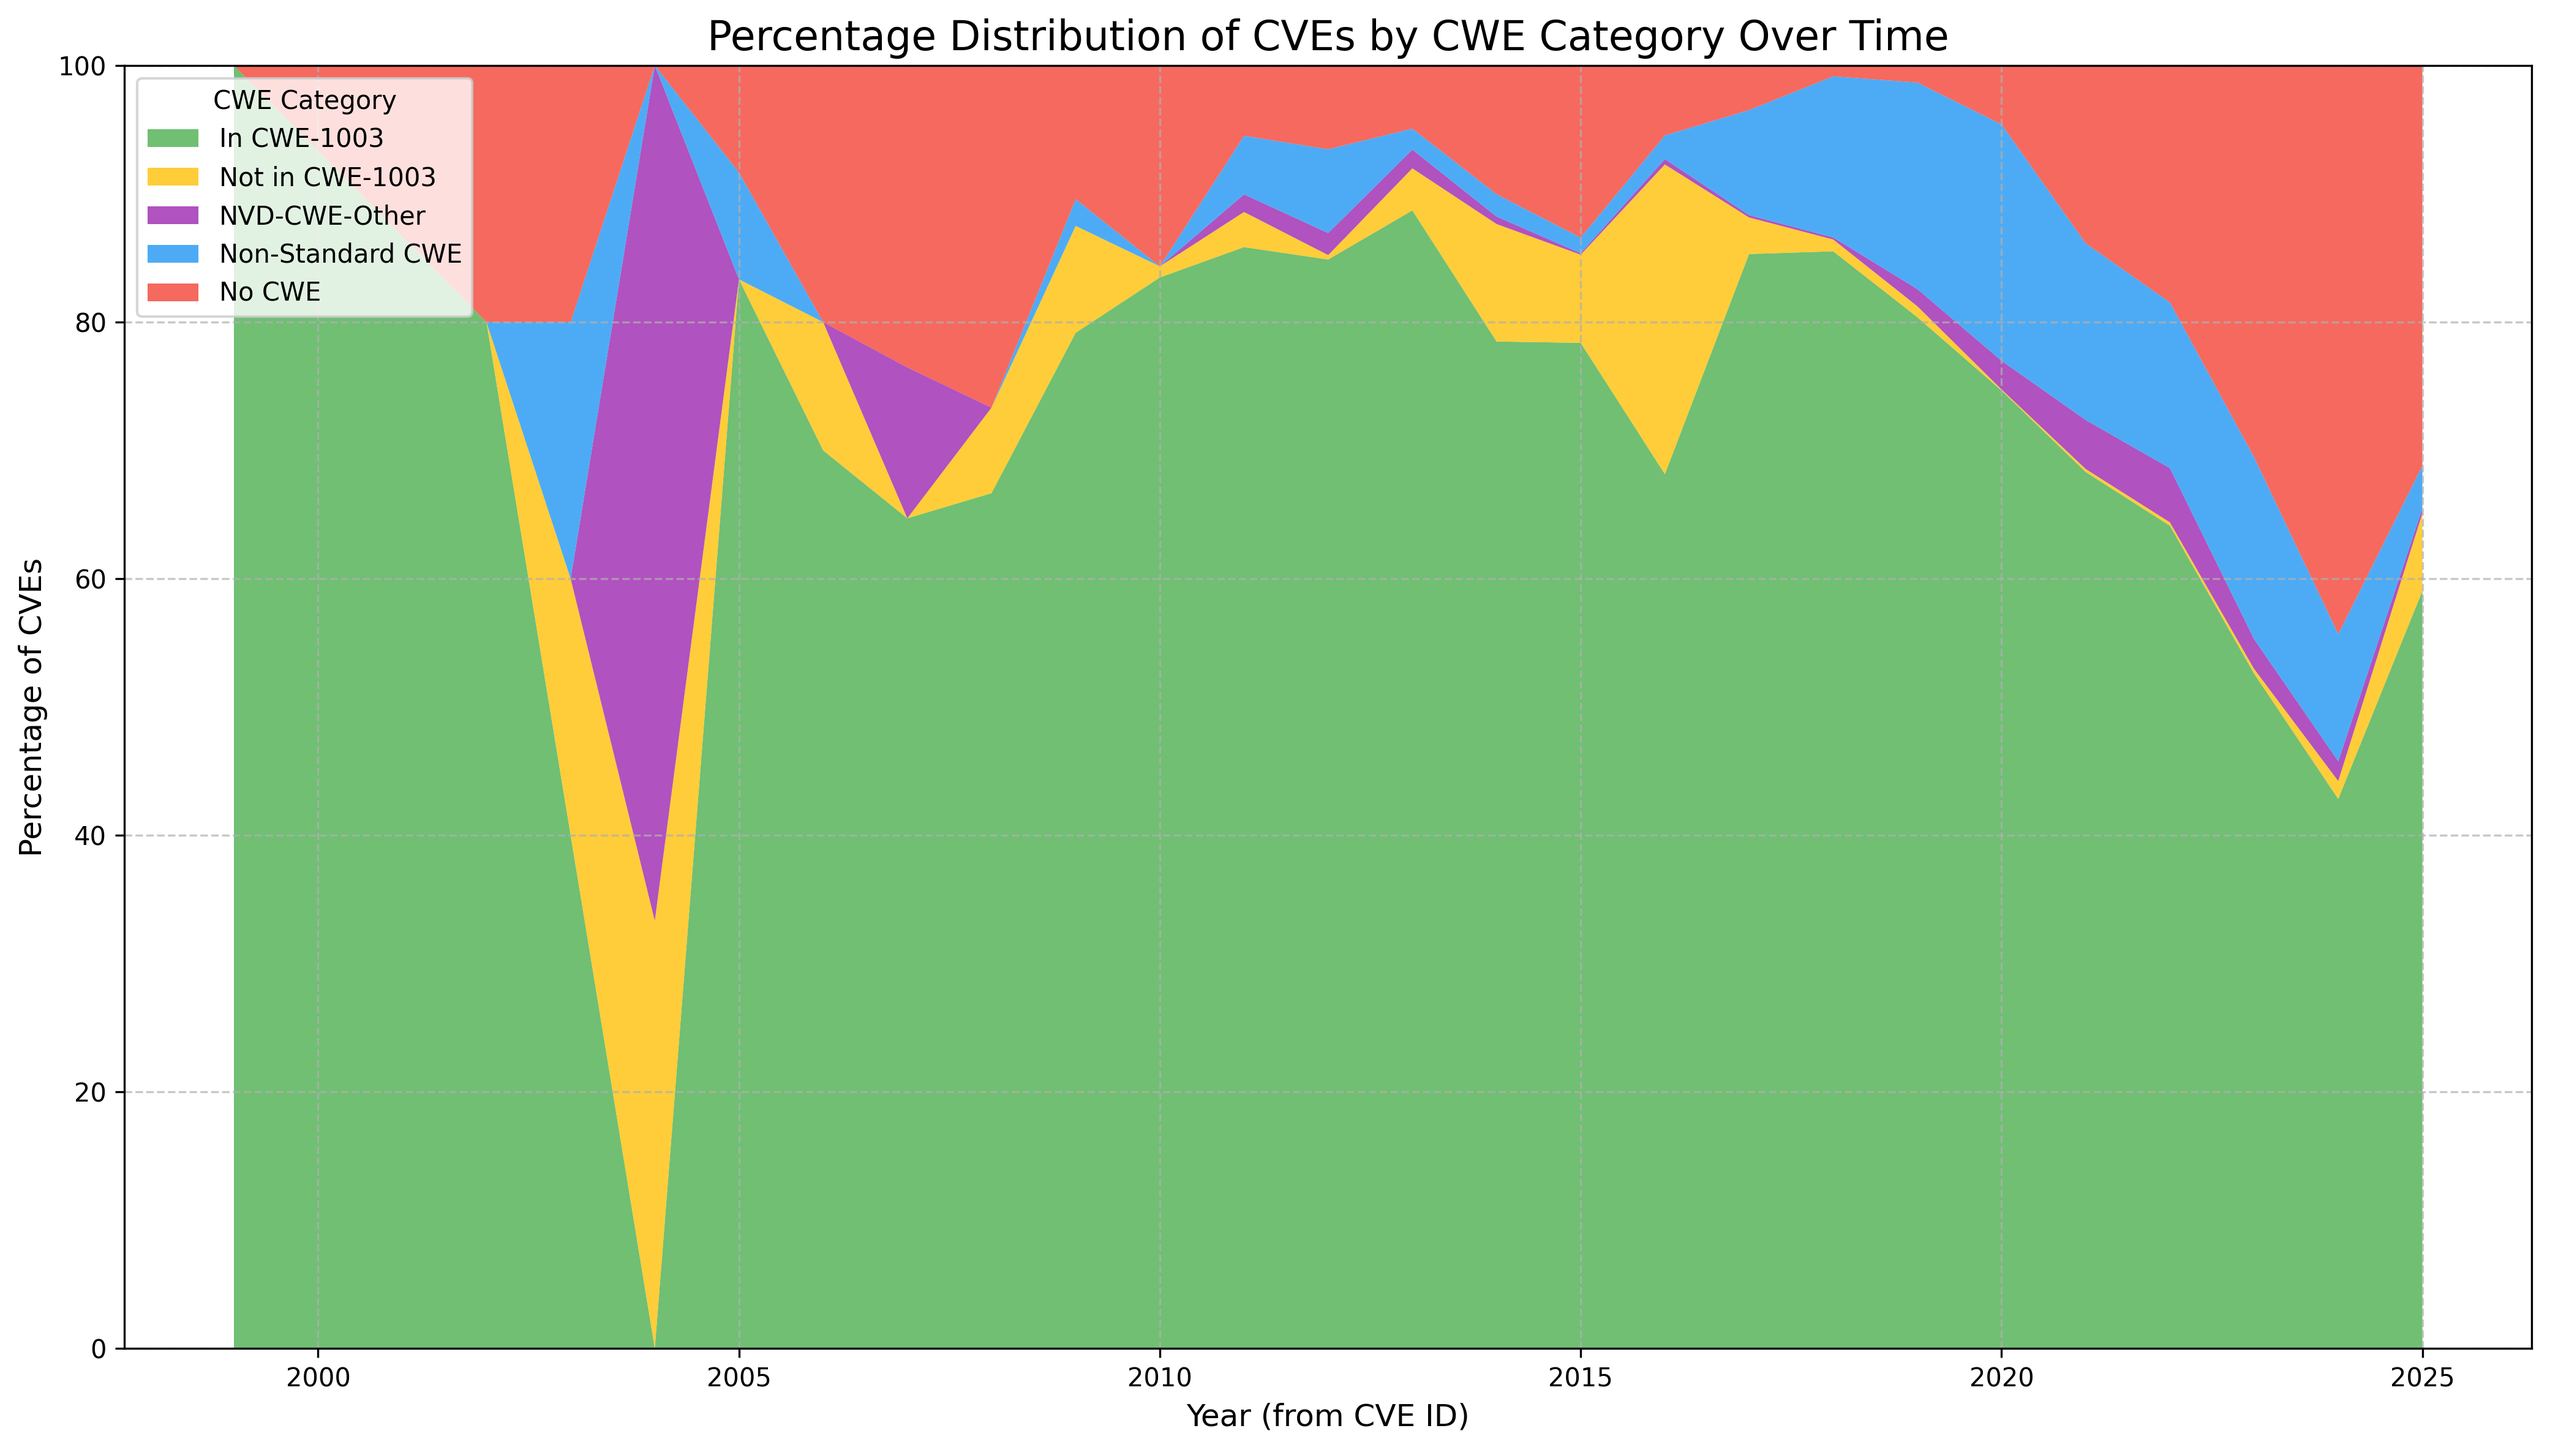
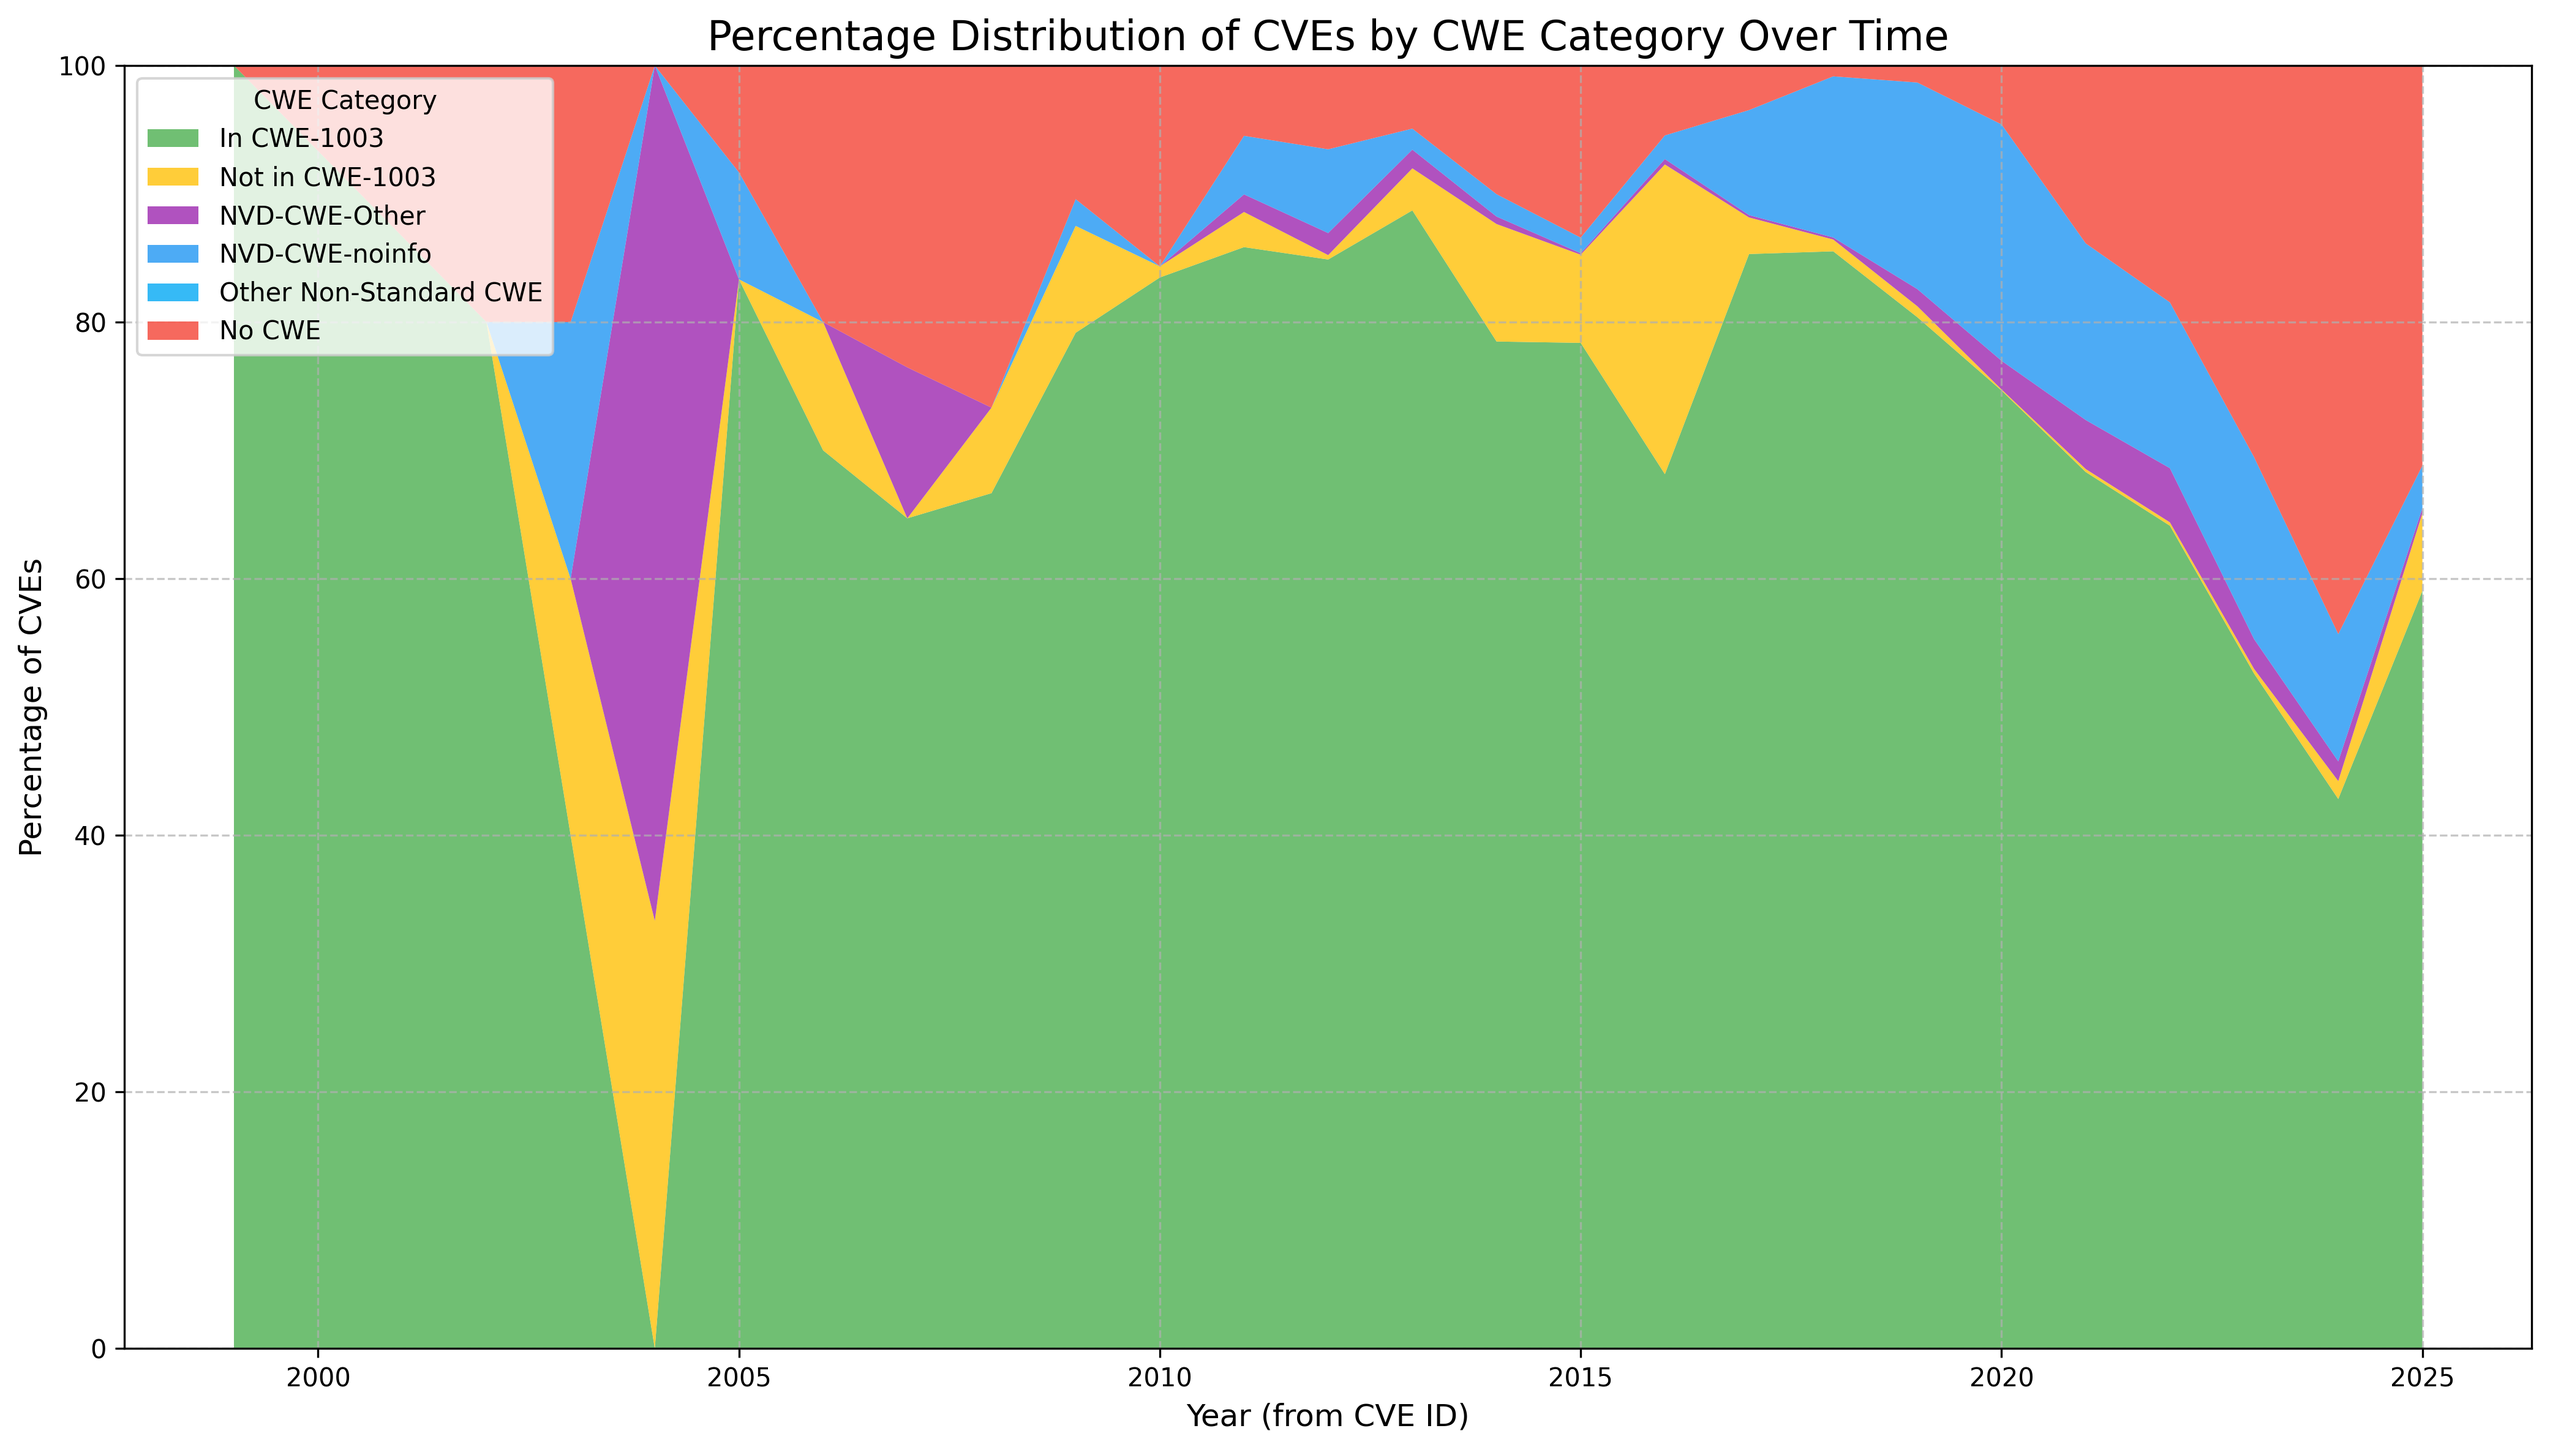
cwes over time

Changed region(s): [[0.0312, 0.0312, 0.2185, 0.25]]

diff --git a/cwe_over_time.py b/cwe_over_time.py
@@ -8,6 +8,7 @@ import os
 import re
 import csv
 from pathlib import Path
+from collections import Counter
 
 def read_gzipped_csv(filepath):
     """Read a gzipped CSV file into a pandas DataFrame."""
@@ -39,18 +40,10 @@ def main():
     # Read the CWE-1003 file to get the list of CWEs in that view
     cwe_1003_ids = set()
     
-    # First, try to directly read and print the first few lines of the file for debugging
-    with open(cwe_1003_path, 'r', encoding='utf-8') as f:
-        print("First 3 lines of 1003.csv:")
-        for i, line in enumerate(f):
-            if i < 3:
-                print(line.strip())
-    
-    # Now read the file again and extract the CWE IDs
+    # Now read the file and extract the CWE IDs
     with open(cwe_1003_path, 'r', encoding='utf-8') as f:
         csv_reader = csv.reader(f)
         header = next(csv_reader)  # Skip header row
-        print(f"CSV header: {header}")
         
         # Find the column index for CWE-ID
         cwe_id_index = header.index('CWE-ID') if 'CWE-ID' in header else 0
@@ -73,8 +66,6 @@ def main():
         cwe_1003_ids.add('119')
     
     print(f"Found {len(cwe_1003_ids)} CWE IDs in the 1003 view")
-    print("CWE IDs in the 1003 view (sample):", sorted(list(cwe_1003_ids))[:10])
-    print("Is '119' in the CWE 1003 view?", '119' in cwe_1003_ids)
     
     print("Reading CVSS data...")
     # Read the CVSS data
@@ -88,7 +79,6 @@ def main():
     invalid_cves = cvss_df[cvss_df['Year'].isna()]
     if not invalid_cves.empty:
         print(f"Warning: Could not extract year from {len(invalid_cves)} CVE IDs.")
-        print("Sample invalid CVE IDs:", invalid_cves['CVE'].head().tolist())
         # Drop rows with invalid years
         cvss_df = cvss_df.dropna(subset=['Year'])
     
@@ -123,7 +113,11 @@ def main():
         if not cwe_list or cwe_list == ['']:
             return 'No CWE'
         
-        # Check for non-standard CWEs (not "CWE-digits" and not "NVD-CWE-Other")
+        # Check for NVD-CWE-noinfo
+        if 'NVD-CWE-noinfo' in cwe_list:
+            return 'NVD-CWE-noinfo'
+        
+        # Check for other non-standard CWEs (not "CWE-digits" and not "NVD-CWE-Other")
         has_non_standard = False
         for cwe in cwe_list:
             if cwe != 'NVD-CWE-Other' and not is_standard_cwe(cwe):
@@ -131,7 +125,7 @@ def main():
                 break
         
         if has_non_standard:
-            return 'Non-Standard CWE'
+            return 'Other Non-Standard CWE'
         
         # Extract numeric part from each CWE ID
         cwe_numbers = [extract_cwe_number(cwe) for cwe in cwe_list if is_standard_cwe(cwe)]
@@ -148,19 +142,11 @@ def main():
     
     cvss_df['Category'] = cvss_df['CWEsList'].apply(categorize_cwe)
     
-    # Look for non-standard CWEs
-    non_standard_cwe_examples = cvss_df[cvss_df['Category'] == 'Non-Standard CWE']
-    if not non_standard_cwe_examples.empty:
-        print(f"\nFound {len(non_standard_cwe_examples)} CVEs with non-standard CWEs")
-        print("Sample non-standard CWEs:")
-        for _, row in non_standard_cwe_examples.head(5).iterrows():
-            print(f"CVE: {row['CVE']}, CWEs: {row['CWEs']}")
-    
     # Group by Year and Category, and count
     grouped_data = cvss_df.groupby(['Year', 'Category']).size().unstack(fill_value=0)
     
     # Handle missing categories by ensuring all categories are columns
-    all_categories = ['In CWE-1003', 'Not in CWE-1003', 'NVD-CWE-Other', 'Non-Standard CWE', 'No CWE']
+    all_categories = ['In CWE-1003', 'Not in CWE-1003', 'NVD-CWE-Other', 'NVD-CWE-noinfo', 'Other Non-Standard CWE', 'No CWE']
     for category in all_categories:
         if category not in grouped_data.columns:
             grouped_data[category] = 0
@@ -168,19 +154,14 @@ def main():
     # Sort columns for consistent appearance
     grouped_data = grouped_data[all_categories]
     
-    # Print category counts to verify
-    total_by_category = grouped_data.sum()
-    print("\nTotal counts by category:")
-    for category in all_categories:
-        print(f"{category}: {total_by_category[category]}")
-    
     # Define colors for categories
     category_colors = {
-        'In CWE-1003': '#4CAF50',      # Green
-        'Not in CWE-1003': '#FFC107',  # Yellow
-        'NVD-CWE-Other': '#9C27B0',    # Purple
-        'Non-Standard CWE': '#2196F3', # Blue
-        'No CWE': '#F44336'            # Red
+        'In CWE-1003': '#4CAF50',           # Green
+        'Not in CWE-1003': '#FFC107',       # Yellow
+        'NVD-CWE-Other': '#9C27B0',         # Purple
+        'NVD-CWE-noinfo': '#2196F3',        # Blue
+        'Other Non-Standard CWE': '#03A9F4', # Light Blue
+        'No CWE': '#F44336'                 # Red
     }
     
     # Create the stacked area plot (cumulative)
@@ -255,7 +236,7 @@ def main():
     plt.figure(figsize=(14, 8))
     
     # Calculate percentages for each year
-    # FIX: Convert to float64 first to avoid dtype incompatibility warning
+    # Convert to float64 first to avoid dtype incompatibility warning
     percentage_data = grouped_data.astype('float64').copy()
     for year in percentage_data.index:
         year_total = percentage_data.loc[year].sum()
